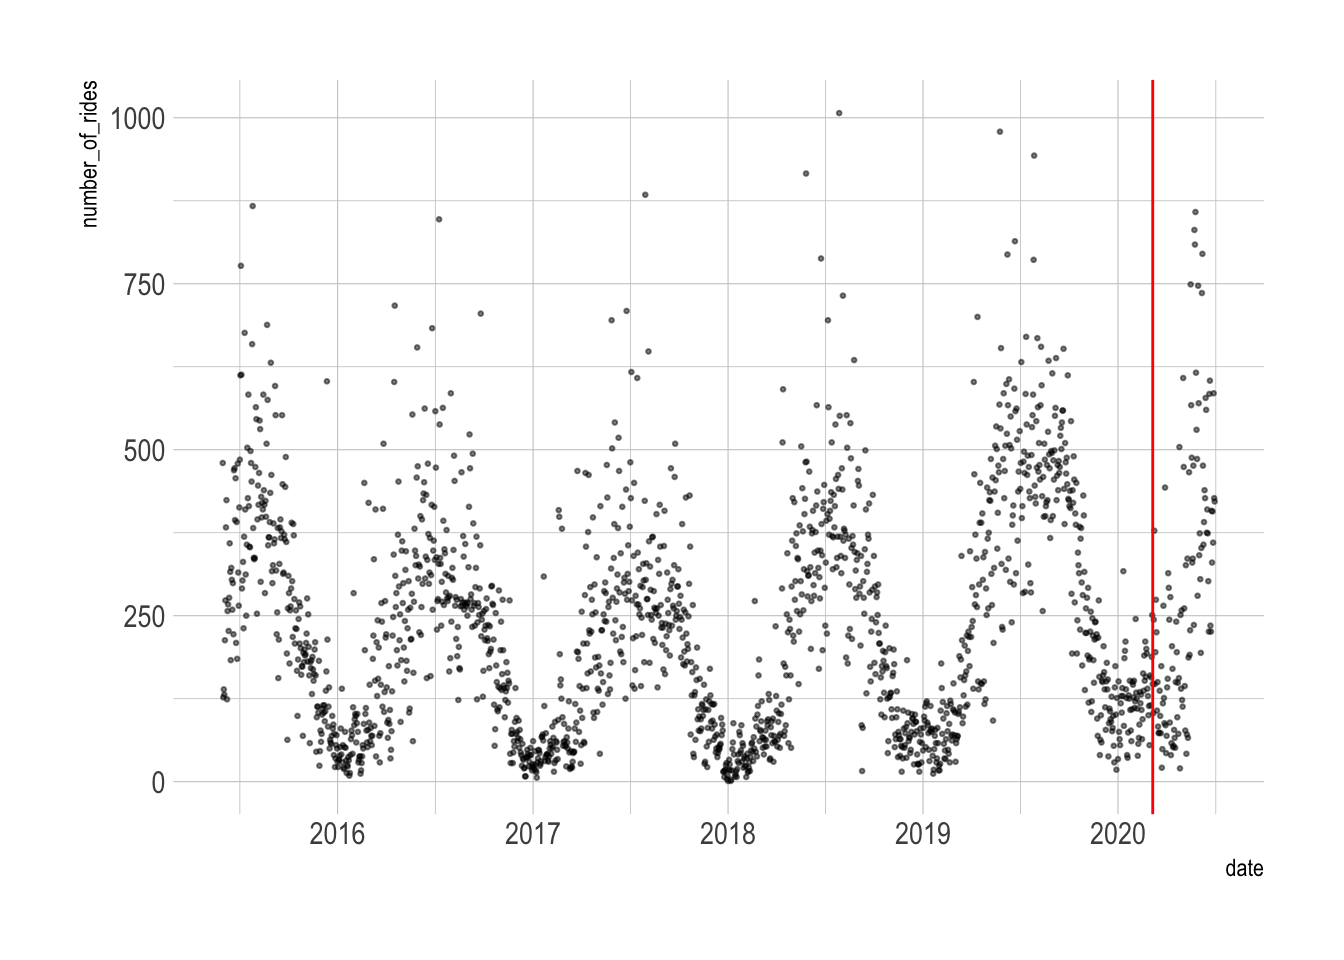
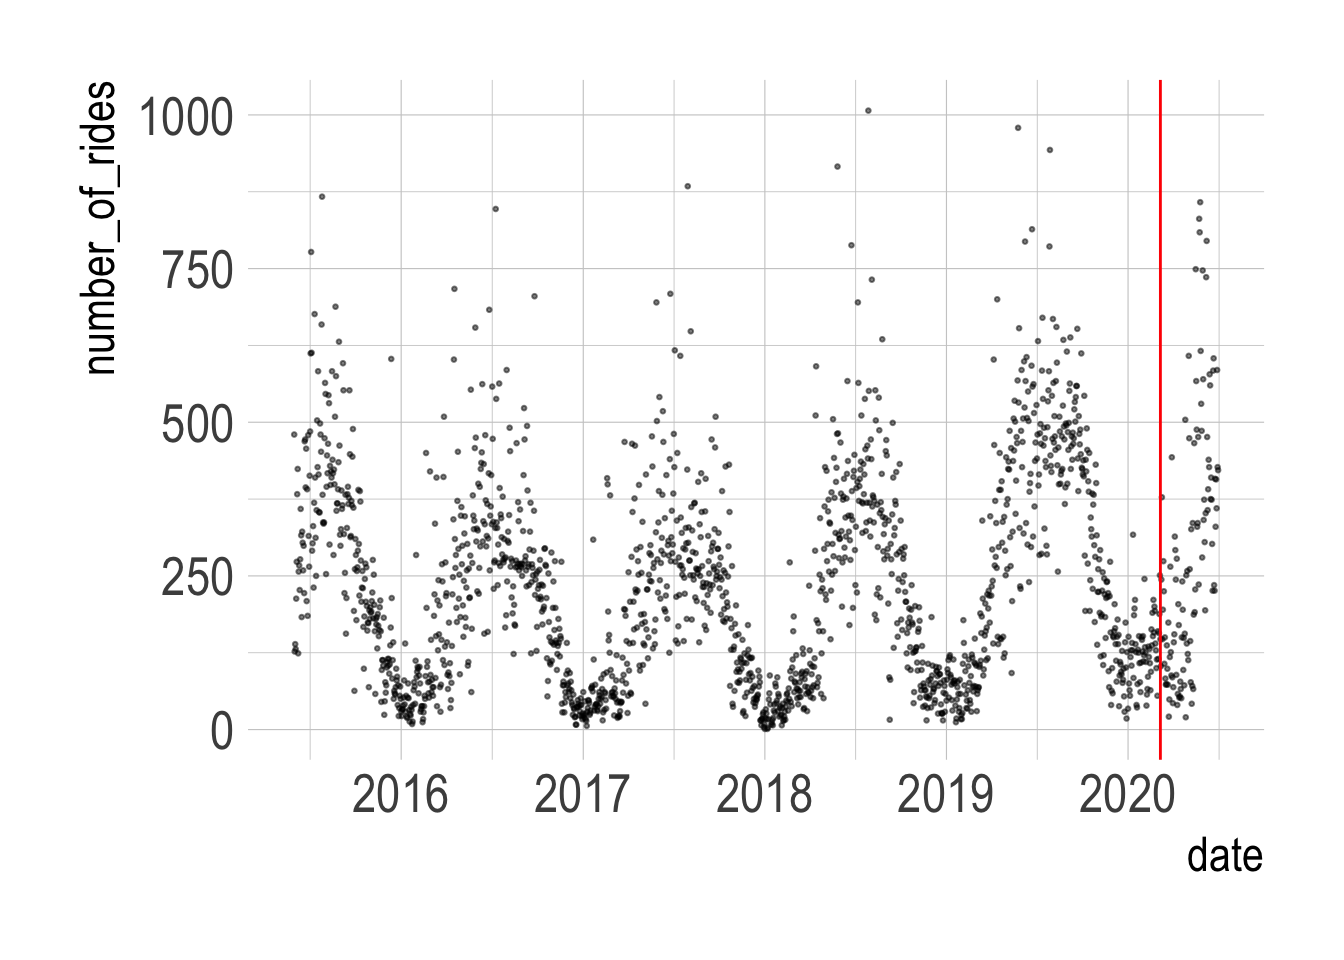
added explainer text, increased font, fixed facet_wrap strip text wrapping

diff --git a/content/post/compare-pre-post-covid/index.html b/content/post/compare-pre-post-covid/index.html
@@ -48,7 +48,9 @@ library(hrbrthemes)
 
 options(scipen = 999, digits = 4)
 
-theme_set(theme_ipsum())</code></pre>
+theme_set(theme_ipsum(base_size = 20, 
+                      strip_text_size = 18, 
+                      axis_title_size = 18))</code></pre>
 <p>I had already combined the usage data from the <a href="https://data.wprdc.org/dataset/healthyride-trip-data">WPRDC</a> with <code>list.files</code> and <code>map_df(read_csv)</code>, so I can just read in the combined CSV file:</p>
 <pre class="r"><code>data &lt;- read_csv(&quot;data/combined_ride_data.csv&quot;)</code></pre>
 <p>Summarizing the number of rides per day shows that the data is very seasonal. The red line is on March 6, which is the date of the first <em>known</em> positive COVID-19 case in the state.</p>
@@ -84,7 +86,7 @@ components(dcmp) %&gt;%
 ## $ season_week     &lt;dbl&gt; 148.509, -78.004, -82.011, -7.388, -57.130, -19.725, …
 ## $ remainder       &lt;dbl&gt; 97.153, -37.821, -55.613, -90.871, -13.951, 46.581, 1…
 ## $ season_adjust   &lt;dbl&gt; 233.89, 100.57, 84.42, 49.21, 126.17, 188.37, 274.81,…</code></pre>
-<p>This code pivots the data long and plots the true number of rides per day and the estimate of the underlying trend per model.</p>
+<p>This code pivots the data long and plots the true number of rides per day and the estimate of the underlying trend per model. The “season_adjust” panel shows the number of rides adjusted for seasonal effects, the “trend” panel shows the underlying trend, and the “remainder” panel shows how much the seasonal adjustment missed by.</p>
 <pre class="r"><code>components(dcmp) %&gt;% 
   pivot_longer(cols = number_of_rides:season_adjust) %&gt;% 
   mutate(name = factor(name, levels = c(&quot;number_of_rides&quot;, &quot;season_adjust&quot;,
@@ -92,17 +94,17 @@ components(dcmp) %&gt;%
                                         &quot;season_year&quot;, &quot;season_week&quot;,
                                         &quot;random&quot;, &quot;remainder&quot;))) %&gt;% 
   filter(!is.na(value)) %&gt;% 
-  filter(name == &quot;trend&quot; | name == &quot;number_of_rides&quot; | name == &quot;remainder&quot;) %&gt;% 
+  filter(name == &quot;trend&quot; | name == &quot;season_adjust&quot; | name == &quot;number_of_rides&quot; | name == &quot;remainder&quot;) %&gt;% 
   ggplot(aes(time, value, color = .model)) +
-  geom_point(alpha = .5, size = .1) +
+  geom_point(alpha = .6, size = .6) +
   annotate(geom = &quot;rect&quot;, 
            xmin = ymd(&quot;2020-03-06&quot;), xmax = ymd(&quot;2020-12-31&quot;),
            ymin = -Inf, ymax = Inf, 
            fill = &quot;red&quot;, alpha = .1) +
-  facet_grid(name ~ .model, scales = &quot;free_y&quot;) +
+  facet_grid(name ~ .model, scales = &quot;free_y&quot;, labeller = label_wrap_gen()) +
   guides(color = FALSE)</code></pre>
-<p><img src="/post/compare-pre-post-covid/index_files/figure-html/unnamed-chunk-5-1.png" width="672" /></p>
-<p>I am not a time series expert, but it appears that the most basic STL model does the best job of identifying the underlying trend in the data.</p>
+<p><img src="/post/compare-pre-post-covid/index_files/figure-html/unnamed-chunk-5-1.png" width="960" /></p>
+<p>I am not a time series expert, but it appears that the most basic STL model <code>STL(number_of_rides)</code> does the best job because that model’s “trend” panel shows the least seasonality.</p>
 <pre class="r"><code>components(dcmp) %&gt;% 
   pivot_longer(cols = number_of_rides:season_adjust) %&gt;% 
   mutate(name = factor(name, levels = c(&quot;number_of_rides&quot;, &quot;season_adjust&quot;,
@@ -110,10 +112,10 @@ components(dcmp) %&gt;%
                                         &quot;season_year&quot;, &quot;season_week&quot;,
                                         &quot;random&quot;, &quot;remainder&quot;))) %&gt;% 
   filter(!is.na(value)) %&gt;% 
-  filter(name == &quot;trend&quot; | name == &quot;number_of_rides&quot; | name == &quot;remainder&quot;) %&gt;% 
+  filter(name == &quot;trend&quot; | name == &quot;season_adjust&quot; | name == &quot;number_of_rides&quot; | name == &quot;remainder&quot;) %&gt;% 
   filter(.model == &quot;STL(number_of_rides)&quot;) %&gt;% 
   ggplot(aes(time, value, color = .model)) +
-  geom_point(alpha = 1, size = .1, color = &quot;#619CFF&quot;) +
+  geom_point(alpha = .6, size = .6, color = &quot;#619CFF&quot;) +
   annotate(geom = &quot;rect&quot;, 
            xmin = ymd(&quot;2016-03-06&quot;), xmax = ymd(&quot;2016-03-30&quot;),
            ymin = -Inf, ymax = Inf, 
@@ -134,7 +136,7 @@ components(dcmp) %&gt;%
            xmin = ymd(&quot;2020-03-06&quot;), xmax = ymd(&quot;2020-03-06&quot;) + 60,
            ymin = -Inf, ymax = Inf, 
            fill = &quot;red&quot;, alpha = .3) +
-  facet_grid(name ~ .model, scales = &quot;free_y&quot;) +
+  facet_grid(name ~ .model, scales = &quot;free_y&quot;, labeller = label_wrap_gen()) +
   guides(color = FALSE)</code></pre>
-<p><img src="/post/compare-pre-post-covid/index_files/figure-html/unnamed-chunk-6-1.png" width="672" /></p>
-<p>Focusing on that model, it appears that the trend dropped in mid-March, but rebounded to normal levels quickly.</p>
+<p><img src="/post/compare-pre-post-covid/index_files/figure-html/unnamed-chunk-6-1.png" width="960" /></p>
+<p>Focusing on that model, it appears that the trend dropped in mid-March, but rebounded to normal levels quickly. I highlighted the data from previous Marches to see if there was a recurring dip in March.</p>
